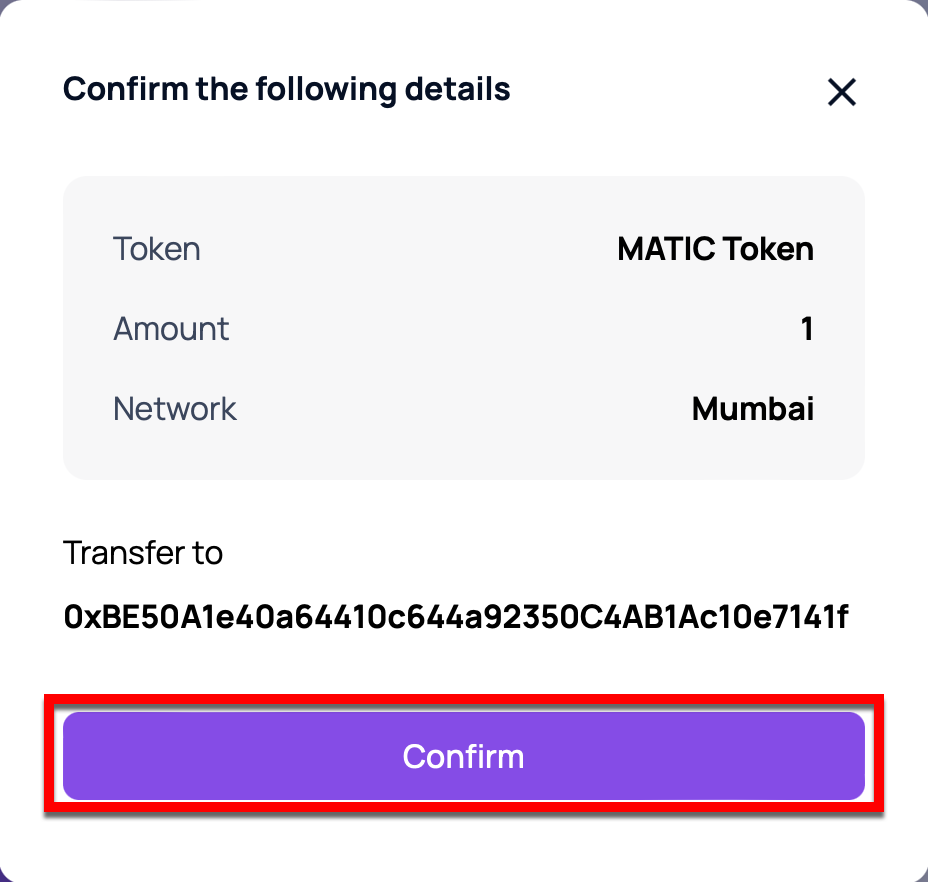
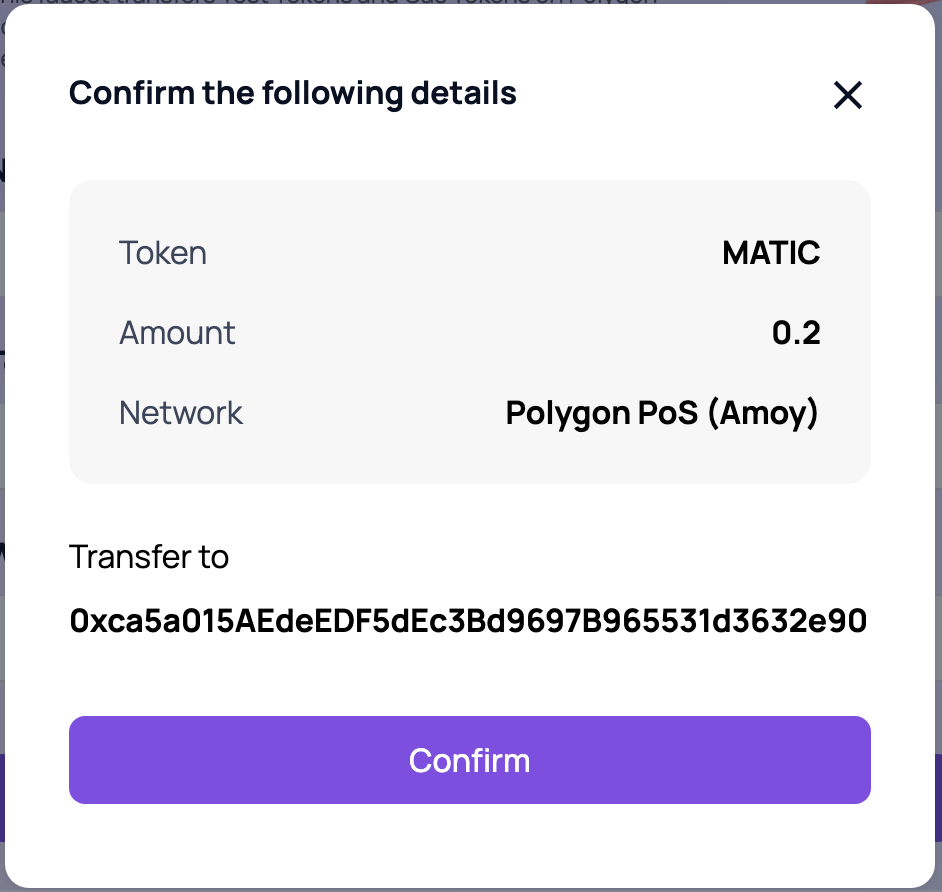
update developers docs to reference sepolia and amoy

diff --git a/smart-contracts/contract-reference/uns-smart-contracts.md b/smart-contracts/contract-reference/uns-smart-contracts.md
@@ -18,6 +18,8 @@ This page is divided into sections, grouping contracts by the following categori
 - [Interfaces](uns-smart-contracts.md#interfaces)
 - [Utility contracts](uns-smart-contracts.md#utility-contracts)
 
+All contract addresses are available on the [UNS GitHub repository](https://github.com/unstoppabledomains/uns/blob/main/Contracts.md)
+
 ## User-facing contracts
 
 This section lists all the smart contracts that members can directly interact with.
@@ -28,77 +30,13 @@ This section lists all the smart contracts that members can directly interact wi
 
 Under the surface, Registry is effectively a map of domain namehashes to key-value dictionaries of records. This structure allows members to store arbitrary records, even those that aren't specified by the [Records reference](/resolution/guides/records-reference.md).
 
-| Network                   | Contract address                                                                                                                | Forwarder                                                                                                                       |
-| ------------------------- | ------------------------------------------------------------------------------------------------------------------------------- | ------------------------------------------------------------------------------------------------------------------------------- |
-| Ethereum mainnet          | [0x049aba7510f45BA5b64ea9E658E342F904DB358D](https://etherscan.io/address/0x049aba7510f45BA5b64ea9E658E342F904DB358D)           | [0x049aba7510f45BA5b64ea9E658E342F904DB358D](https://etherscan.io/address/0x049aba7510f45BA5b64ea9E658E342F904DB358D)           |
-| Ethereum testnet (Goerli) | [0x070e83FCed225184E67c86302493ffFCDB953f71](https://goerli.etherscan.io/address/0x070e83FCed225184E67c86302493ffFCDB953f71)    | [0x070e83FCed225184E67c86302493ffFCDB953f71](https://goerli.etherscan.io/address/0x070e83FCed225184E67c86302493ffFCDB953f71)    |
-| Polygon mainnet           | [0xa9a6A3626993D487d2Dbda3173cf58cA1a9D9e9f](http://polygonscan.com/address/0xa9a6A3626993D487d2Dbda3173cf58cA1a9D9e9f)         | [0xa9a6A3626993D487d2Dbda3173cf58cA1a9D9e9f](http://polygonscan.com/address/0xa9a6A3626993D487d2Dbda3173cf58cA1a9D9e9f)         |
-| Polygon testnet (Mumbai)  | [0x2a93C52E7B6E7054870758e15A1446E769EdfB93](https://mumbai.polygonscan.com/address/0x2a93C52E7B6E7054870758e15A1446E769EdfB93) | [0x2a93C52E7B6E7054870758e15A1446E769EdfB93](https://mumbai.polygonscan.com/address/0x2a93C52E7B6E7054870758e15A1446E769EdfB93) |
-
 **Source code:** [contracts/UnsRegistry.sol](https://github.com/unstoppabledomains/uns/blob/main/contracts/UNSRegistry.sol)
 
 ### ProxyReader
 
 `ProxyReader` provides an interface that allows members to fetch information about domains from both `UNSRegistry` and CNS smart contracts in one call. For more details, see [Architecture overview - ProxyReader](/getting-started/domain-registry-essentials/uns-architecture-overview.md#proxyreader).
 
-| Network                   | Contract address                                                                                                                |
-| ------------------------- | ------------------------------------------------------------------------------------------------------------------------------- |
-| Ethereum mainnet          | [0x58034A288D2E56B661c9056A0C27273E5460B63c](https://etherscan.io/address/0x58034A288D2E56B661c9056A0C27273E5460B63c)           |
-| Ethereum testnet (Goerli) | [0xE3b961856C417d081a02cBa0161a051268F52677](https://goerli.etherscan.io/address/0xE3b961856C417d081a02cBa0161a051268F52677)    |
-| Polygon mainnet           | [0x423F2531bd5d3C3D4EF7C318c2D1d9BEDE67c680](http://polygonscan.com/address/0x423F2531bd5d3C3D4EF7C318c2D1d9BEDE67c680)         |
-| Polygon testnet (Mumbai)  | [0x6fe7c857C1B0E54492C8762f27e0a45CA7ff264B](https://mumbai.polygonscan.com/address/0x6fe7c857C1B0E54492C8762f27e0a45CA7ff264B) |
-
-| Network                   | Legacy addresses                                                                                                                                                                                                                                                                                                                                                            |
-| ------------------------- | --------------------------------------------------------------------------------------------------------------------------------------------------------------------------------------------------------------------------------------------------------------------------------------------------------------------------------------------------------------------------- |
-| Ethereum mainnet          | [0xfEe4D4F0aDFF8D84c12170306507554bC7045878](https://etherscan.io/address/0xfEe4D4F0aDFF8D84c12170306507554bC7045878) </br>[0xa6E7cEf2EDDEA66352Fd68E5915b60BDbb7309f5](https://etherscan.io/address/0xa6E7cEf2EDDEA66352Fd68E5915b60BDbb7309f5) </br>[0x7ea9Ee21077F84339eDa9C80048ec6db678642B1](https://etherscan.io/address/0x7ea9Ee21077F84339eDa9C80048ec6db678642B1) |
-| Ethereum testnet (Goerli) | [0xFc5f608149f4D9e2Ed0733efFe9DD57ee24BCF68](https://goerli.etherscan.io/address/0xFc5f608149f4D9e2Ed0733efFe9DD57ee24BCF68)                                                                                                                                                                                                                                                |
-
 **Source code:** [contracts/ProxyReader.sol](https://github.com/unstoppabledomains/uns/blob/main/contracts/ProxyReader.sol)
-
-### ProxyAdmin
-
-| Network                   | Contract address                                                                                                                | Forwarder |
-| ------------------------- | ------------------------------------------------------------------------------------------------------------------------------- | --------- |
-| Ethereum mainnet          | [0xAA16DA78110D9A9742c760a1a064F28654Ab93de](https://etherscan.io/address/0xAA16DA78110D9A9742c760a1a064F28654Ab93de)           | &mdash;   |
-| Ethereum testnet (Goerli) | [0xf4906E210523F9dA79E33811A44EE000441F4E04](https://goerli.etherscan.io/address/0xf4906E210523F9dA79E33811A44EE000441F4E04)    | &mdash;   |
-| Polygon mainnet           | [0xe1D668052D52388F52b90f4d1798DB2b04bC3b88](http://polygonscan.com/address/0xe1D668052D52388F52b90f4d1798DB2b04bC3b88)         | &mdash;   |
-| Polygon testnet (Mumbai)  | [0x460d63117c7Ab1624b7474C45BF46eC6702f57ce](https://mumbai.polygonscan.com/address/0x460d63117c7Ab1624b7474C45BF46eC6702f57ce) | &mdash;   |
-
-### Resolver
-
-| Network                   | Contract address                                                                                                             | Forwarder                                                                                                                    |
-| ------------------------- | ---------------------------------------------------------------------------------------------------------------------------- | ---------------------------------------------------------------------------------------------------------------------------- |
-| Ethereum mainnet          | [0xb66DcE2DA6afAAa98F2013446dBCB0f4B0ab2842](https://etherscan.io/address/0xb66DcE2DA6afAAa98F2013446dBCB0f4B0ab2842)        | [0xc33aBEe943be2A2DA50708bAb61F47d581ee450d](https://etherscan.io/address/0xc33aBEe943be2A2DA50708bAb61F47d581ee450d)        |
-| Ethereum testnet (Goerli) | [0x0555344A5F440Bd1d8cb6B42db46c5e5D4070437](https://goerli.etherscan.io/address/0x0555344A5F440Bd1d8cb6B42db46c5e5D4070437) | [0xFCc1A95B7287Ae7a8B7cA813F12991dF5714d4C7](https://goerli.etherscan.io/address/0xFCc1A95B7287Ae7a8B7cA813F12991dF5714d4C7) |
-| Polygon mainnet           | &mdash;                                                                                                                      | &mdash;                                                                                                                      |
-| Polygon testnet (Mumbai)  | &mdash;                                                                                                                      | &mdash;                                                                                                                      |
-
-### FreeMinter
-
-| Network                   | Contract address                                                                                                      | Forwarder |
-| ------------------------- | --------------------------------------------------------------------------------------------------------------------- | --------- |
-| Ethereum mainnet          | [0x1fC985cAc641ED5846b631f96F35d9b48Bc3b834](https://etherscan.io/address/0x1fC985cAc641ED5846b631f96F35d9b48Bc3b834) | &mdash;   |
-| Ethereum testnet (Goerli) | &mdash;                                                                                                               | &mdash;   |
-| Polygon mainnet           | &mdash;                                                                                                               | &mdash;   |
-| Polygon testnet (Mumbai)  | &mdash;                                                                                                               | &mdash;   |
-
-### MintableERC721Predicate
-
-| Network                   | Contract address                                                                                                             | Forwarder |
-| ------------------------- | ---------------------------------------------------------------------------------------------------------------------------- | --------- |
-| Ethereum mainnet          | [0x932532aA4c0174b8453839A6E44eE09Cc615F2b7](https://etherscan.io/address/0x932532aA4c0174b8453839A6E44eE09Cc615F2b7)        | &mdash;   |
-| Ethereum testnet (Goerli) | [0x56E14C4C1748a818a5564D33cF774c59EB3eDF59](https://goerli.etherscan.io/address/0x56E14C4C1748a818a5564D33cF774c59EB3eDF59) | &mdash;   |
-| Polygon mainnet           | &mdash;                                                                                                                      | &mdash;   |
-| Polygon testnet (Mumbai)  | &mdash;                                                                                                                      | &mdash;   |
-
-### RootChainManager
-
-| Network                   | Contract address                                                                                                             | Forwarder |
-| ------------------------- | ---------------------------------------------------------------------------------------------------------------------------- | --------- |
-| Ethereum mainnet          | [0xA0c68C638235ee32657e8f720a23ceC1bFc77C77](https://etherscan.io/address/0xA0c68C638235ee32657e8f720a23ceC1bFc77C77)        | &mdash;   |
-| Ethereum testnet (Goerli) | [0xBbD7cBFA79faee899Eaf900F13C9065bF03B1A74](https://goerli.etherscan.io/address/0xBbD7cBFA79faee899Eaf900F13C9065bF03B1A74) | &mdash;   |
-| Polygon mainnet           | &mdash;                                                                                                                      | &mdash;   |
-| Polygon testnet (Mumbai)  | &mdash;                                                                                                                      | &mdash;   |
 
 ## Registry controllers
 
@@ -108,59 +46,7 @@ The Unstoppable Domains team reserves the right to mint second-level domains and
 
 `MintingManager` defines an interface for minting second-level domains. This smart contract is primarily used by the Unstoppable Domains team, but its interface also supports delegating minting process to other parties via [Meta Transactions](/manage-domains/delegating-transactions.md). All calls to `MintingManager` are proxied to the `UNSRegistry` via the [MintingManager](uns-smart-contracts.md#mintingmanager) smart contract.
 
-| Network                   | Contract address                                                                                                                | Forwarder                                                                                                                       |
-| ------------------------- | ------------------------------------------------------------------------------------------------------------------------------- | ------------------------------------------------------------------------------------------------------------------------------- |
-| Ethereum mainnet          | [0x2a7084870bB724175a3C96Da8FaA55128fa3E19D](https://etherscan.io/address/0x2a7084870bB724175a3C96Da8FaA55128fa3E19D)           | [0xb970fbCF52cd8111c76c379D4f2FE12E7f8AE7fb](https://etherscan.io/address/0xb970fbCF52cd8111c76c379D4f2FE12E7f8AE7fb)           |
-| Ethereum testnet (Goerli) | [0x9ee42D3EB042e06F8Cd241890C4fA0d51e4DA345](https://goerli.etherscan.io/address/0x9ee42D3EB042e06F8Cd241890C4fA0d51e4DA345)    | [0x7F9F48cF94C69ce91D4b442DA186F31118ac0185](https://goerli.etherscan.io/address/0x7F9F48cF94C69ce91D4b442DA186F31118ac0185)    |
-| Polygon mainnet           | [0x7be83293BeeDc9Eba1bd76c66A65F10F3efaeC26](http://polygonscan.com/address/0x7be83293BeeDc9Eba1bd76c66A65F10F3efaeC26)         | [0xC37d3c4326ab0E1D2b9D8b916bBdf5715f780fcF](http://polygonscan.com/address/0xC37d3c4326ab0E1D2b9D8b916bBdf5715f780fcF)         |
-| Polygon testnet (Mumbai)  | [0x428189346bb3CC52f031A1092fd47C919AC30A9f](https://mumbai.polygonscan.com/address/0x428189346bb3CC52f031A1092fd47C919AC30A9f) | [0xEf3a491A8750BEC2Dff5339CF6Df94436d432C4d](https://mumbai.polygonscan.com/address/0xEf3a491A8750BEC2Dff5339CF6Df94436d432C4d) |
-
 **Source code:** [contracts/MintingManager.sol](https://github.com/unstoppabledomains/uns/blob/main/contracts/MintingManager.sol)
-
-### SignatureController
-
-| Network                   | Contract address                                                                                                             | Forwarder |
-| ------------------------- | ---------------------------------------------------------------------------------------------------------------------------- | --------- |
-| Ethereum mainnet          | [0x82EF94294C95aD0930055f31e53A34509227c5f7](https://etherscan.io/address/0x82EF94294C95aD0930055f31e53A34509227c5f7)        | &mdash;   |
-| Ethereum testnet (Goerli) | [0x5199dAE4B24B987ba18FcE1b64664D1B798d372B](https://goerli.etherscan.io/address/0x5199dAE4B24B987ba18FcE1b64664D1B798d372B) | &mdash;   |
-| Polygon mainnet           | &mdash;                                                                                                                      | &mdash;   |
-| Polygon testnet (Mumbai)  | &mdash;                                                                                                                      | &mdash;   |
-
-### MintingController
-
-| Network                   | Contract address                                                                                                             | Forwarder |
-| ------------------------- | ---------------------------------------------------------------------------------------------------------------------------- | --------- |
-| Ethereum mainnet          | [0xb0EE56339C3253361730F50c08d3d7817ecD60Ca](https://etherscan.io/address/0xb0EE56339C3253361730F50c08d3d7817ecD60Ca)        | &mdash;   |
-| Ethereum testnet (Goerli) | [0xCEC41677be322049cC885c0DAe2fE0D52CA195ca](https://goerli.etherscan.io/address/0xCEC41677be322049cC885c0DAe2fE0D52CA195ca) | &mdash;   |
-| Polygon mainnet           | &mdash;                                                                                                                      | &mdash;   |
-| Polygon testnet (Mumbai)  | &mdash;                                                                                                                      | &mdash;   |
-
-### WhitelistedMinter
-
-| Network                   | Contract address                                                                                                      | Forwarder |
-| ------------------------- | --------------------------------------------------------------------------------------------------------------------- | --------- |
-| Ethereum mainnet          | [0xd3fF3377b0ceade1303dAF9Db04068ef8a650757](https://etherscan.io/address/0xd3fF3377b0ceade1303dAF9Db04068ef8a650757) | &mdash;   |
-| Ethereum testnet (Goerli) | &mdash;                                                                                                               | &mdash;   |
-| Polygon mainnet           | &mdash;                                                                                                               | &mdash;   |
-| Polygon testnet (Mumbai)  | &mdash;                                                                                                               | &mdash;   |
-
-### URIPrefixController
-
-| Network                   | Contract address                                                                                                             | Forwarder |
-| ------------------------- | ---------------------------------------------------------------------------------------------------------------------------- | --------- |
-| Ethereum mainnet          | [0x09B091492759737C03da9dB7eDF1CD6BCC3A9d91](https://etherscan.io/address/0x09B091492759737C03da9dB7eDF1CD6BCC3A9d91)        | &mdash;   |
-| Ethereum testnet (Goerli) | [0x29465e3d2daA588E62375977bCe9b3f51406a794](https://goerli.etherscan.io/address/0x29465e3d2daA588E62375977bCe9b3f51406a794) | &mdash;   |
-| Polygon mainnet           | &mdash;                                                                                                                      | &mdash;   |
-| Polygon testnet (Mumbai)  | &mdash;                                                                                                                      | &mdash;   |
-
-### DomainZoneController
-
-| Network                   | Contract address                                                                                                      | Forwarder |
-| ------------------------- | --------------------------------------------------------------------------------------------------------------------- | --------- |
-| Ethereum mainnet          | [0xeA70777e28E00E81f58b8921fC47F78B8a72eFE7](https://etherscan.io/address/0xeA70777e28E00E81f58b8921fC47F78B8a72eFE7) | &mdash;   |
-| Ethereum testnet (Goerli) | &mdash;                                                                                                               | &mdash;   |
-| Polygon mainnet           | &mdash;                                                                                                               | &mdash;   |
-| Polygon testnet (Mumbai)  | &mdash;                                                                                                               | &mdash;   |
 
 ## Interfaces
 

diff --git a/getting-started/test-domains/faucet.md b/getting-started/test-domains/faucet.md
@@ -8,50 +8,29 @@ description: This page describes the process for requesting a free test domain a
 <embed src="/snippets/_test-domain-explain.md" />
 
 :::warning
-The [Partner API](/domain-distribution-and-management/overview.md) only supports Polygon Layer2 Network. And, for [Unstoppable Login](/identity/quickstart/retrieve-client-credentials.md), it can be integrated with any EVM-compatible DApp. However, domains minted on testnets (e.g. Mumbai or Goerli) are not supported.
+The [Partner API](/domain-distribution-and-management/overview.md) only supports Polygon Layer2 Network. And, for [Unstoppable Login](/identity/quickstart/retrieve-client-credentials.md), it can be integrated with any EVM-compatible DApp. However, domains minted on testnets (e.g. Sepolia or Amoy) are not supported.
 :::
 
-## Step 1: Gather Requirements for the Website Faucet
+## Get a free domain from Unstoppable Website
 
-- A Web3 compatible wallet
-- Configure your wallet for the [Polygon/Mumbai](/manage-domains/guides/add-polygon-to-metamask.md) network
-- Get [free MATIC tokens from Polygon faucet](/manage-domains/guides/get-polygon-test-tokens.md) to cover transaction fees (only for Mumbai testnet)
-- Ensure you have funds in your wallet to pay transaction fees
-
-:::info
-Domains on Polygon mainnet can be purchased for free through Unstoppable Website Faucet, but members will need to cover their own gas fees to mint the domain.
-:::
-
-## Step 2: Configure the Test Domain
-
-- Go to the [Unstoppable Website Faucet](https://unstoppabledomains.com/developers/testdomain) page for developers.
-- Select the network for the domain: **Polygon Mainnet** or **Mumbai Testnet**.
-- Configure the domain options:
-  - **domain ending:** .crypto, .wallet, .blockchain, .bitcoin, .x, .888, .nft, .dao, .klever, .zil, .hi, .kresus, .polygon, .anime, .manga
-  - **domain suffix:** the part of the domain the follows `udtestdev-`
-  - **recipient address:** must enter Polygon address (required)
-  - **cryptocurrency records:** add optional cryptocurrency addresses, such as Bitcoin or Litecoin
-  - **custom records:** add optional key and value pairs
+- Go to the [Unstoppable Website](https://unstoppabledomains.com/developers/testdomain) and select any uns domain, that starts with suffix `uns-devtest-`.
+- Go to cart and click on **Go to Checkout**.
+- Then you can select a wallet for claiming the domain, or connect a wallet, or just click **Skip** and proceed with the purchase.
 
 :::warning
-The [Partner API](/domain-distribution-and-management/overview.md) only supports Polygon Layer2 Network. And, for [Unstoppable Login](/identity/quickstart/retrieve-client-credentials.md), it can be integrated with any EVM-compatible DApp. However, domains minted on testnets (e.g. Mumbai or Goerli) are not supported.
+If you haven't connected your wallet and proceeded with a self-custody wallet, you have 7 days for claming the domain. After 7 days, claiming is disabled until an Unstoppable Vault subscription is purchased.
+:::
+
+:::warning
+The [Partner API](/domain-distribution-and-management/overview.md) only supports Polygon Layer2 Network. And, for [Unstoppable Login](/identity/quickstart/retrieve-client-credentials.md), it can be integrated with any EVM-compatible DApp. However, domains minted on testnets (e.g. Amoy or Sepolia) are not supported.
 :::
 
 <figure>
 
-![Configure options on Unstoppable website faucet](/images/website-faucet-options.png)
+![Selecting a free domain on Unstoppable website](/images/website-free-domain-purchase.png)
 
-<figcaption>Configure options on Unstoppable website faucet</figcaption>
+<figcaption>Selecting a free domain on Unstoppable website</figcaption>
 </figure>
-
-:::info
-If you don't know the recipient address, this information will be retrieved and populated for you after connecting your wallet to the transaction. Just click on **Mint Domain** to continue.
-:::
-
-## Step 3: Mint the Domain & Sign the Transaction
-
-- Click the **Mint Domain** button when finished configuring options.
-- Sign the transaction with your wallet.
 
 :::success Congratulations!
 You're the new proud owner of a test domain on your preferred network. Happy hacking!

diff --git a/manage-domains/guides/add-polygon-to-metamask.md b/manage-domains/guides/add-polygon-to-metamask.md
@@ -1,6 +1,6 @@
 ---
 title: Add Polygon Network to MetaMask Wallet Guide | UD Developer Portal
-description: This guide shows how to configure the MetaMask wallet browser extension to support both Polygon mainnet and testnet (Mumbai) networks.
+description: This guide shows how to configure the MetaMask wallet browser extension to support both Polygon mainnet and testnet (Amoy) networks.
 redirectFrom:
   - /polygon/
   - /polygon/add-polygon-to-metamask/
@@ -8,7 +8,7 @@ redirectFrom:
 
 # Add Polygon Network to MetaMask Wallet Guide
 
-This guide covers configuring the MetaMask wallet to support both Polygon mainnet and testnet (Mumbai) networks. This process requires the use of the MetaMask browser extension.
+This guide covers configuring the MetaMask wallet to support both Polygon mainnet and testnet (Amoy) networks. This process requires the use of the MetaMask browser extension.
 
 ## Step 1: Open MetaMask Network Settings
 
@@ -43,13 +43,13 @@ Click the `Add a network` button on the network settings page:
 
 Then, fill the network configuration for the Polygon network you want to add (mainnet or testnet) into the fields displayed in MetaMask.
 
-| Field Name | Polygon Mainnet | Polygon Testnet (Mumbai) |
-| - | - | - |
-| Network Name | Polygon | Mumbai |
-| New RPC URL | https://polygon-rpc.com/ | https://polygon-mumbai.infura.io/v3/4458cf4d1689497b9a38b1d6bbf05e78 |
-| Chain ID | 137 | 80001 |
-| Currency Symbol | MATIC | MATIC |
-| Block Explorer URL | https://polygonscan.com/ | https://mumbai.polygonscan.com |
+| Field Name | Polygon Mainnet | Polygon Testnet (Amoy)              |
+| - | - |-------------------------------------|
+| Network Name | Polygon | Amoy                                |
+| New RPC URL | https://polygon-rpc.com/ | https://rpc-amoy.polygon.technology |
+| Chain ID | 137 | 80002                               |
+| Currency Symbol | MATIC | MATIC                               |
+| Block Explorer URL | https://polygonscan.com/ | https://www.oklink.com/amoy      |
 
 <figure>
 

diff --git a/snippets/_test-domain-explain.md b/snippets/_test-domain-explain.md
@@ -1,8 +1,8 @@
 To make integrations easier, Unstoppable Domains provides developers with a free test domain. You can use any available domain ending for your free test domain.
 
-To distinguish these test domains from paid domains, all test domains are prefixed with `udtestdev-`. For example:
+To distinguish these test domains from paid domains, all test domains are prefixed with `uns-devtest-`. For example:
 
-* `udtestdev-freedomainisawesome.crypto`
-* `udtestdev-test-wallet-integration.wallet`
+* `uns-devtest-freedomainisawesome.crypto`
+* `uns-devtest-test-wallet-integration.wallet`
 
-To prevent abuse, we ask that developers cover the cost of minting and transferring these domains to their wallets. **Unstoppable Domains does not make any money from issuing test domains.**
+To prevent abuse, we only allow to mint one domain per account, on our website. **Unstoppable Domains does not make any money from issuing test domains.**

diff --git a/manage-domains/guides/get-polygon-test-tokens.md b/manage-domains/guides/get-polygon-test-tokens.md
@@ -13,9 +13,9 @@ This guide covers getting test tokens for your wallet on the Polygon network. Th
 
 Head over to the [Polygon Faucet](https://faucet.polygon.technology/). It is a website that gives out tiny amounts of MATIC cryptocurrency for you to test transactions.
 
-## Step 2: Select Mumbai Test Network
+## Step 2: Select Amoy Test Network
 
-Select `Mumbai` as the Polygon test network and `MATIC token` from the drop-down list of tokens you can receive from the faucet:
+Select `Amoy` as the Polygon test network:
 
 <figure class="half-inline-block">
 
@@ -24,12 +24,6 @@ Select `Mumbai` as the Polygon test network and `MATIC token` from the drop-down
 <figcaption>faucet network selection</figcaption>
 </figure>
 
-<figure class="half-inline-block">
-
-![faucet token selection](/images/faucet-token-selection.png)
-
-<figcaption>faucet token selection</figcaption>
-</figure>
 
 ## Step 3: Submit Your Wallet Address
 

diff --git a/snippets/_login-mainnet-warning.md b/snippets/_login-mainnet-warning.md
@@ -1,3 +1,3 @@
 :::warning
-Unstoppable Login can be integrated with any EVM-compatible DApp (as well as [Solana](/identity/overview/featured-updates.md#login-with-verified-solana-wallet) DApps). However, domains minted on testnets (e.g. Mumbai or Goerli) are not supported.
+Unstoppable Login can be integrated with any EVM-compatible DApp (as well as [Solana](/identity/overview/featured-updates.md#login-with-verified-solana-wallet) DApps). However, domains minted on testnets (e.g. Amoy or Sepolia) are not supported.
 :::
